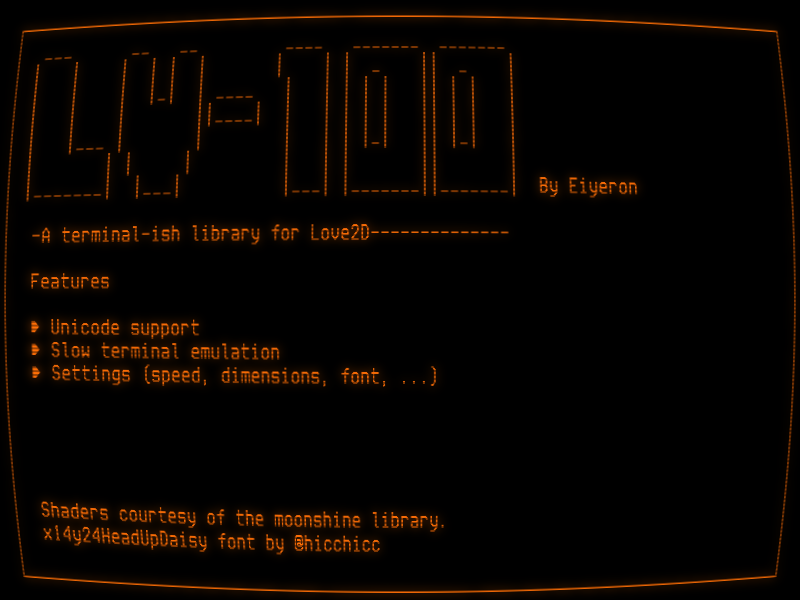
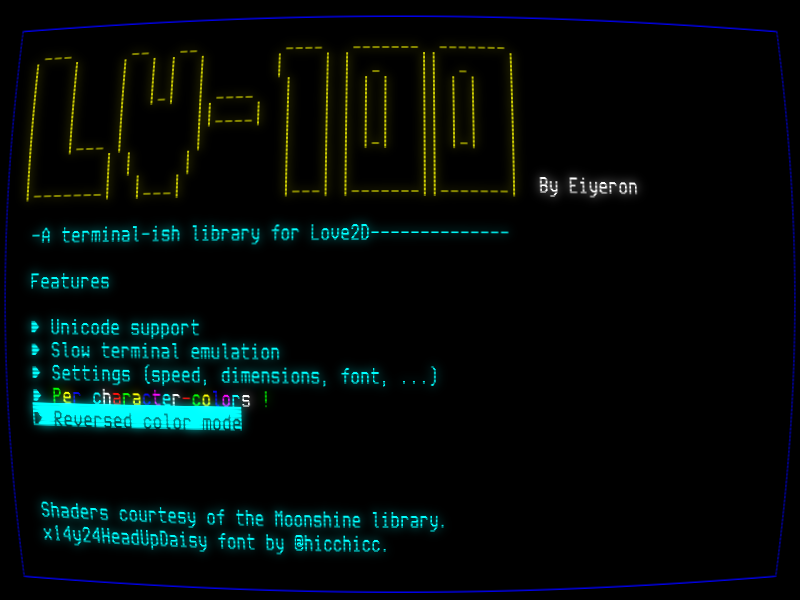
Small bugfix and updated readme's example and screenshot

diff --git a/README.md b/README.md
@@ -16,9 +16,12 @@ effect.glow.min_luma = 0.2
 
 local font = love.graphics.newFont("x14y24pxHeadUpDaisy.ttf", 24) -- Thanks @hicchicc for the font
 local term = Terminal(14*80, (font:getHeight()-4)*25, font, nil, font:getHeight()-4)
+term:hide_cursor()
 
+term:set_cursor_color(Terminal.schemes.basic[4])
 term:frame("line", 1,1,80,25)
 
+term:set_cursor_color(Terminal.schemes.basic[3])
 term:print(3,2,[[ ___      __   __         ____   _______  _______ ]])
 term:print(3,3,[[|   |    |  | |  |       |    | |  _    ||  _    |]])
 term:print(3,4,[[|   |    |  |_|  | ____   |   | | | |   || | |   |]])
@@ -27,8 +30,10 @@ term:print(3,6,[[|   |___ |       |        |   | | |_|   || |_|   |]])
 term:print(3,7,[[|       | |     |         |   | |       ||       |]])
 term:print(3,8,[[|_______|  |___|          |___| |_______||_______|]])
 
+term:set_cursor_color(Terminal.schemes.basic[7])
 term:print(55, 8, "By Eiyeron")
 
+term:set_cursor_color(Terminal.schemes.basic[6])
 term:print(4, 10, "-A terminal-ish library for Love2D--------------")
 
 term:print(4, 12, "Features")
@@ -36,6 +41,21 @@ term:print(4, 14, "☛ Unicode support")
 term:print(4, 15, "☛ Slow terminal emulation")
 term:print(4, 16, "☛ Helpers")
 term:print(4, 16, "☛ Settings (speed, dimensions, font, ...)")
+
+term:print(4, 17, "☛ ")
+local text_line = "Per character-colors !"
+for i=1,#text_line do
+    term:set_cursor_color(Terminal.schemes.basic[i%7 +1])
+    term:print(text_line:sub(i, i))
+end
+
+term:set_cursor_color(Terminal.schemes.basic[6])
+term:reverse_cursor(true)
+term:print(4, 18, "☛ Reversed color mode")
+
+term:reverse_cursor()
+term:print(4, 22, "Shaders courtesy of the Moonshine library.")
+term:print(4, 23, "x14y24HeadUpDaisy font by @hicchicc.")
 
 function love.update(dt)
     term:update(dt)
@@ -46,9 +66,7 @@ function love.draw()
     effect(function()
         love.graphics.push()
         love.graphics.scale(love.graphics.getWidth()/term.canvas:getWidth(), love.graphics.getHeight()/term.canvas:getHeight())
-        love.graphics.setColor(0,0,0)
         love.graphics.rectangle("fill", 0,0,term.canvas:getWidth(), term.canvas:getHeight())
-        love.graphics.setColor(0.964, 0.635, 0.156)
         term:draw()
         love.graphics.pop()
     end)
@@ -56,3 +74,4 @@ end
 ```
 
 Note : the CRT effect is done with [moonshine's](https://github.com/vrld/moonshine) shaders.
+The font shown, x14y24pxHeadUpDaisy, is available [here](http://www17.plala.or.jp/xxxxxxx/00ff/).
